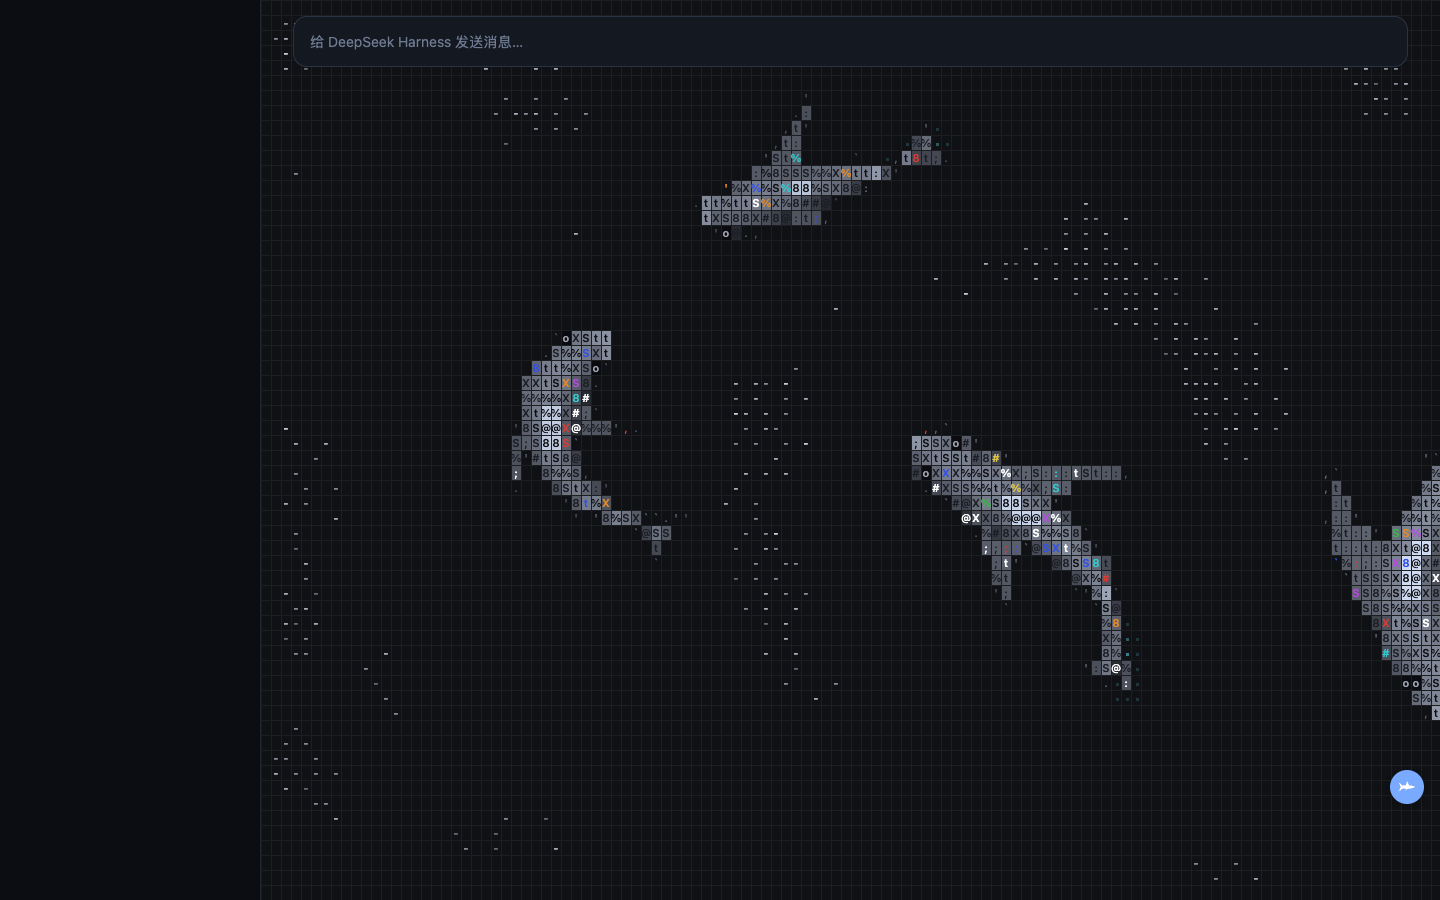
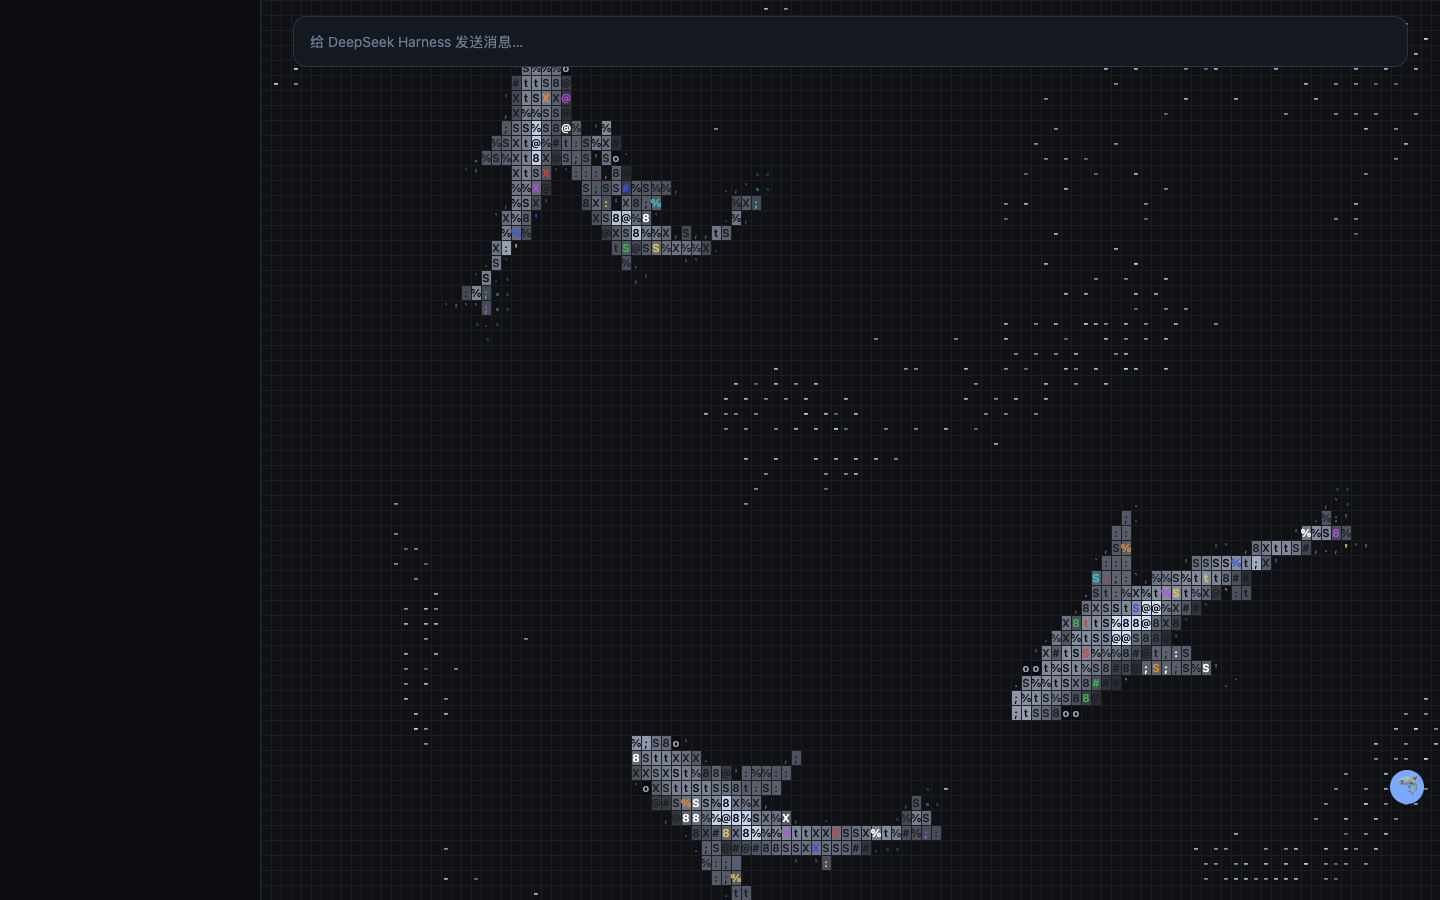
revert: keep the original 🦈 glyph on the send-button-sized control
The 34px accent pill stays; only the drawing changes. The emoji is what
people already recognised as the shark switch, so the hand-drawn silhouette
goes away.

diff --git a/lib/client.js b/lib/client.js
@@ -1,5 +1,5 @@
 /**
- * dsh-ascii-sharks 0.1.2 — ASCII sharks and schooling fish swimming behind the DeepSeek Harness conversation column.
+ * dsh-ascii-sharks 0.1.3 — ASCII sharks and schooling fish swimming behind the DeepSeek Harness conversation column.
  *
  * DSH web client bundle. Running this file only registers a factory with the
  * module loader; the plugin body runs when the host materialises the module.
@@ -13,7 +13,7 @@ window.__ModuleLoader__.load({
 		Object.defineProperty(exports, Symbol.toStringTag, { value: "Module" });
 		var __plugin = (function () {
 /**
- * dsh-ascii-sharks 0.1.2 — ASCII sharks and schooling fish swimming behind the DeepSeek Harness conversation column.
+ * dsh-ascii-sharks 0.1.3 — ASCII sharks and schooling fish swimming behind the DeepSeek Harness conversation column.
  *
  * DSH web client bundle. Running this file only registers a factory with the
  * module loader; the plugin body runs when the host materialises the module.
@@ -1811,7 +1811,6 @@ var __dshAsciiSharks = (() => {
   // src/tuner.ts
   var PANEL_WIDTH = 268;
   var ACCENT = "#33c8cc";
-  var SHARK_GLYPH = "M23.4 12C20.6 10.7 17.8 10 15 9.8L12.8 4.6C11.8 7 11.2 8.8 10.8 9.7C9.4 9.8 8 9.9 6.6 10.1L2.2 6.2L4.6 12L2.2 17.8L6.6 13.9C8.6 14.1 10.4 14.2 11.9 14.3L10 17.4L13 14.5C16.2 14.3 20 13.4 23.4 12Z";
   var SPECIES_LABELS = {
     classic: "\u7ECF\u5178",
     hammerhead: "\u9524\u5934",
@@ -1896,27 +1895,12 @@ var __dshAsciiSharks = (() => {
       "transition:filter .18s ease,transform .18s ease",
       "box-shadow:0 2px 10px rgba(0,0,0,.28)"
     ].join(";");
-    const sharkIcon = document.createElementNS("http://www.w3.org/2000/svg", "svg");
-    sharkIcon.setAttribute("viewBox", "0 0 25 24");
-    sharkIcon.setAttribute("width", "20");
-    sharkIcon.setAttribute("height", "20");
-    sharkIcon.setAttribute("fill", "#fff");
-    sharkIcon.setAttribute("aria-hidden", "true");
-    const sharkPath = document.createElementNS("http://www.w3.org/2000/svg", "path");
-    sharkPath.setAttribute("d", SHARK_GLYPH);
-    sharkIcon.append(sharkPath);
-    const closeIcon = document.createElementNS("http://www.w3.org/2000/svg", "svg");
-    closeIcon.setAttribute("viewBox", "0 0 16 16");
-    closeIcon.setAttribute("width", "15");
-    closeIcon.setAttribute("height", "15");
-    closeIcon.setAttribute("fill", "none");
-    closeIcon.setAttribute("aria-hidden", "true");
-    const closePath = document.createElementNS("http://www.w3.org/2000/svg", "path");
-    closePath.setAttribute("d", "M4 4l8 8M12 4l-8 8");
-    closePath.setAttribute("stroke", "#fff");
-    closePath.setAttribute("stroke-width", "1.9");
-    closePath.setAttribute("stroke-linecap", "round");
-    closeIcon.append(closePath);
+    const sharkIcon = document.createElement("span");
+    sharkIcon.textContent = "\u{1F988}";
+    sharkIcon.style.cssText = "font-size:18px;line-height:1;";
+    const closeIcon = document.createElement("span");
+    closeIcon.textContent = "\u2715";
+    closeIcon.style.cssText = "font-size:16px;line-height:1;color:#fff;";
     gear.append(sharkIcon);
     const panel = document.createElement("div");
     panel.style.cssText = [

diff --git a/src/tuner.ts b/src/tuner.ts
@@ -23,15 +23,6 @@ interface TunerOptions {
 
 const PANEL_WIDTH = 268;
 const ACCENT = "#33c8cc";
-/**
- * Side-view shark facing right: pointed snout, tall triangular dorsal fin and a
- * crescent tail. Drawn as one filled path so it stays legible at 20px, where an
- * emoji or a many-part drawing turns to mush.
- */
-const SHARK_GLYPH =
-  "M23.4 12C20.6 10.7 17.8 10 15 9.8L12.8 4.6C11.8 7 11.2 8.8 10.8 9.7" +
-  "C9.4 9.8 8 9.9 6.6 10.1L2.2 6.2L4.6 12L2.2 17.8L6.6 13.9C8.6 14.1 10.4 14.2 11.9 14.3" +
-  "L10 17.4L13 14.5C16.2 14.3 20 13.4 23.4 12Z";
 const SPECIES_LABELS: Record<string, string> = {
   classic: "经典",
   hammerhead: "锤头",
@@ -127,28 +118,13 @@ export function createTuner(options: TunerOptions): TunerHandle {
     "box-shadow:0 2px 10px rgba(0,0,0,.28)",
   ].join(";");
 
-  const sharkIcon = document.createElementNS("http://www.w3.org/2000/svg", "svg");
-  sharkIcon.setAttribute("viewBox", "0 0 25 24");
-  sharkIcon.setAttribute("width", "20");
-  sharkIcon.setAttribute("height", "20");
-  sharkIcon.setAttribute("fill", "#fff");
-  sharkIcon.setAttribute("aria-hidden", "true");
-  const sharkPath = document.createElementNS("http://www.w3.org/2000/svg", "path");
-  sharkPath.setAttribute("d", SHARK_GLYPH);
-  sharkIcon.append(sharkPath);
+  const sharkIcon = document.createElement("span");
+  sharkIcon.textContent = "🦈";
+  sharkIcon.style.cssText = "font-size:18px;line-height:1;";
 
-  const closeIcon = document.createElementNS("http://www.w3.org/2000/svg", "svg");
-  closeIcon.setAttribute("viewBox", "0 0 16 16");
-  closeIcon.setAttribute("width", "15");
-  closeIcon.setAttribute("height", "15");
-  closeIcon.setAttribute("fill", "none");
-  closeIcon.setAttribute("aria-hidden", "true");
-  const closePath = document.createElementNS("http://www.w3.org/2000/svg", "path");
-  closePath.setAttribute("d", "M4 4l8 8M12 4l-8 8");
-  closePath.setAttribute("stroke", "#fff");
-  closePath.setAttribute("stroke-width", "1.9");
-  closePath.setAttribute("stroke-linecap", "round");
-  closeIcon.append(closePath);
+  const closeIcon = document.createElement("span");
+  closeIcon.textContent = "✕";
+  closeIcon.style.cssText = "font-size:16px;line-height:1;color:#fff;";
 
   gear.append(sharkIcon);
 

diff --git a/README.md b/README.md
@@ -7,7 +7,7 @@
 A DeepSeek Harness wallpaper plugin, ported from
 [stackedlol/ascii-sharks](https://github.com/stackedlol/ascii-sharks).
 
-`dsh-ascii-sharks` v0.1.2 · [HuasionWu/dsh-ascii-sharks](https://github.com/HuasionWu/dsh-ascii-sharks)
+`dsh-ascii-sharks` v0.1.3 · [HuasionWu/dsh-ascii-sharks](https://github.com/HuasionWu/dsh-ascii-sharks)
 
 </div>
 
@@ -25,7 +25,7 @@ A DeepSeek Harness wallpaper plugin, ported from
 - **透明叠层**：画布只画墨，宿主自己的背景色透上来，深浅主题都成立。
 - **零运行时依赖**：React 由宿主提供，包内只有一份构建好的 `lib/client.js`。
 - **首屏淡入**：新会话空态（hero）下满强度，进入对话后自动降到"若有若无"。
-- **可调**：右下角的蓝色鲨鱼按钮（与发送按钮同尺寸同配色）打开设置面板，改完立即生效并写入 `localStorage`。
+- **可调**：右下角的蓝色 🦈 按钮（与发送按钮同尺寸同配色）打开设置面板，改完立即生效并写入 `localStorage`。
 
 ## 安装
 
